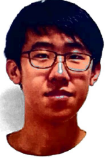
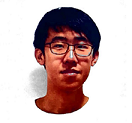
version  2

diff --git a/resume/index.html b/resume/index.html
@@ -16,7 +16,9 @@
     <div class="container" id="cv">
         <div class="side">
             <div class="me">
-                <div class="portrait"></div>
+                <div class="wechat">
+                  <img src="static/image/portrait.png" alt="">
+                </div>
                 <h1 id="username" >张明睿</h1>
                 <h4 id="persona-tag" >计算机视觉 / 脑机接口 / 机器学习</h4>
             </div>
@@ -53,32 +55,35 @@
                 <hr>
                 <ul class="progress-list">
                     <li>
-                        <label class="left-label">Python</label>
+                        <label class="left-label">C/C++</label>
                         <progress value="80" max="100"></progress>
                     </li>
                     <li>
-                        <label class="left-label">C/C++</label>
+                        <label class="left-label">Python</label>
                         <progress value="70" max="100"></progress>
                     </li>
                     <li>
-                        <label class="left-label">html/css/Javascript</label>
+                        <label class="left-label">Matlab</label>
                         <progress value="60" max="100"></progress>
                     </li>
                     <li>
-                        <label class="left-label">机器学习</label>
-                        <progress value="60" max="100"></progress>
+                        <label class="left-label">SQL</label>
+                        <progress value="80" max="100"></progress>
                     </li>
                 </ul>
             </div>
             <div class="stack info-unit">
-                <h2 class="info-header"><i class="iconfont icon-build"></i> <span class="info-title">技术栈</span></h2>
+                <h2 class="info-header"><i class="iconfont icon-build"></i> <span class="info-title">专业基础</span></h2>
                 <hr>
                 <ul class="stack-list">
                     <li>
-                        <label class="left-label">前端</label><span class="label-value">jQuery、Angular.js、React.js</span></li>
+                        <label class="left-label">数学</label><span class="label-value">高等数学上95,高等数学下93,高等解题方法94,概率论与数理统计90</span></li>
                     </li>
                     <li>
-                        <label class="left-label">后端</label><span class="label-value">Flask、Django、Twisted、Node.js、MongoDB、MySQL、Redis</span></li>
+                        <label class="left-label">英语</label><span class="label-value">大学英语90，GMIC翻译志愿者</span></li>
+                    </li>
+                    <li>
+                        <label class="left-label">算法</label><span class="label-value">数据结构93,算法设计90,面向对象设计98</span></li>
                     </li>
                 </ul>
             </div>
@@ -89,12 +94,6 @@
                 <div class="weixin">
                     <img src="static/image/wechat.png" alt="">
                 </div>
-            </div>
-            <div class="remodal remodal-img" data-remodal-id="weixin-modal">
-                <h3>请输入图片URL地址：</h3>
-                <br/>
-                <input type="text" id="weixin-url">
-                <button data-remodal-action="confirm" class="remodal-confirm">确定</button>
             </div>
         </div>
         <div class="main">
@@ -136,10 +135,8 @@
                 <hr>
                 <ul class="experience-list">
                     <li>
-                        <h3>基于脉冲神经网络的手绘图片检索分类</h3>
-                        <p align="right">
-                            北京大学数字视频编解码技术国家工程实验室
-                        </p>
+                        <h3>基于脉冲神经网络的手绘图片检索分类 </h3>
+                        <h4>北京大学数字视频编解码技术国家工程实验室</h4>
                         <p>
                           * 对手绘数据集进行网络架构、学习方法、编码模型等方向的实验；
                         </p>
@@ -149,9 +146,7 @@
                     </li>
                     <li>
                         <h3>RSNA肺炎检测</h3>
-                        <p align="right">
-                            Kaggle
-                        </p>
+                          <h4>Kaggle</h4>
                         <p>
                           * 学习 Mask RCNN、RetinaNet 等目标检测模型并对网络训练调优
                         </p>
@@ -161,21 +156,17 @@
                     </li>
                     <li>
                         <h3>基于脉冲神经网络的心率预测</h3>
-                        <p align="right">
-                          中国科学院计算机网络信息中心
-                        </p>
+                        <h4>中国科学院计算机网络信息中心</h4>
                         <p>
                           * 了解脉冲神经网络的结构和模拟器实现原理
                         </p>
                         <p>
-                          * 利用脉冲神经网络模拟器 CARLsim 实现液态机模型，从编码好的心跳脉冲序列中提取特征序列并输出到分类模型进行预测。
+                          * 利用脉冲神经网络模拟器 CARLsim 实现液态机模型，从编码好的心跳脉冲序列中提取特征序列并输出到分类模型进行预测，成功参与国际大学生类脑计算比赛
                         </p>
                     </li>
                     <li>
                         <h3>数字视网膜仿真</h3>
-                        <p align="right">
-                          北京大学数字视频编解码技术国家工程实验室
-                        </p>
+                        <h4>北京大学数字视频编解码技术国家工程实验室</h4>
                         <p>
                           * 熟悉灵长类视网膜生物结构，利用非负矩阵分解结合深度学习模型对视网膜层次结构进行模拟
                         </p>
@@ -185,9 +176,7 @@
                     </li>
                     <li>
                         <h3>“人工智能与大数据”暑期学校项目</h3>
-                        <p align="right">
-                          Sidney Sussex College, Cambridge University(剑桥大学悉尼·苏塞克斯学院)
-                        </p>
+                        <h4>Sidney Sussex College, Cambridge University(剑桥大学悉尼·苏塞克斯学院)</h4>
                         <p>* 参加“认知科学与人工智能”、“Facebook用户个性分析”等课程；</p>
                         <p>* 调研了NHS最新AI诊疗系统, 医疗影像发展应用等；</p>
                         <p>* 进行关于”AI在医疗诊疗领域应用”的主题演讲答辩。</p>
@@ -199,10 +188,15 @@
                 <hr>
                 <ul class="experience-list">
                     <li>
-                        <h3>钢琴十级</h3>
+                        <h3>个人爱好：音乐(钢琴十级),运动(国际象棋，沙滩排球，羽毛球)，书法</h3>
                     </li>
                     <li>
-                      <h3>骑行，国际象棋，排球，书法</h3>
+                      <h3>学生工作：组织北邮第二届人工智能论坛，作为大班学委组织学院“学霸讲堂”活动等</h3>
+                    </li>
+                    <li>
+                      <h3>
+                        社会工作：志愿时长70h；参与GDG线下，MSRA annual meeting等科技活动
+                      </h3>
                     </li>
             </div>
         </div>

diff --git a/resume/static/css/style.css b/resume/static/css/style.css
@@ -191,9 +191,9 @@ progress::-moz-progress-value {
     margin: 0 auto;
     margin-top:20px;
     margin-bottom: 10px;
-    background-image:url('https://github.com/cohaesio/cohaesio.github.io/blob/master/resume/static/image/portrait.png');
+    background-image:url('../static/image/portrait.png');
     background-size: 120%;
-    background-position:center;
+    background-position:left;
     border-radius:50%;
     border:5px solid #607d8b;
     width:160px;
